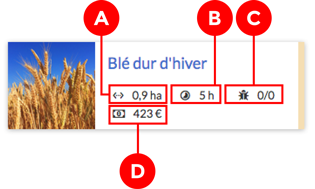
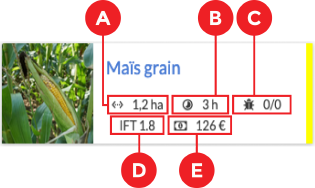
IFT (wip)

diff --git a/content/fr/chapitre9.html b/content/fr/chapitre9.html
@@ -2353,19 +2353,17 @@
                      <img src="../images/chapitre9/d-maj.svg" alt="D" height="40" width="40">
                   </div>
                   <div class="divTableCellInter" style="width: auto">
+                     <p><img src="../images/chapitre9/ift.svg" alt="IFT" height="20" class="align-icone icone-marge-droite">affiche l'IFT total pondéré par les surfaces pour cette activité.</p>
+                  </div>
+               </div>
+			   <div class="divTableRow">
+                  <div class="divTableCellInter">
+                     <img src="../images/chapitre9/e-maj.svg" alt="E" height="40" width="40">
+                  </div>
+                  <div class="divTableCellInter" style="width: auto">
                      <p><img src="../images/chapitre9/money.svg" alt="Dépenses/Recettes" height="20" class="align-icone icone-marge-droite">affiche le coût global de production estimatif et calculé pour cette activité<sup>2</sup>.</p>
                   </div>
                </div>
-			   <!--
-			   <div class="divTableRow">
-                  <div class="divTableCellInter">
-                     <img src="../images/chapitre9/e-maj.svg" alt="D" height="40" width="40">
-                  </div>
-                  <div class="divTableCellInter">
-                     <p><img src="../images/chapitre9/flask.svg" alt="Phyto-fertilisant" height="20" class="align-icone icone-marge-droite">affiche les traitements phytosanitaires et fertilisants pour cette activité.</p>
-                  </div>
-               </div>
-			-->
             </div>
          </div>
 	  <p><em>1. Les temps de travaux sont automatiquement proratisés lorsqu'une intervention est enregistrée en ciblant des parcelles et/ou des cultures dont les activités sont différentes.</em><br /><em>2. Le coût global prend en compte les coûts des intrants, de main d'œuvre, des équipements et des prestations de services enregistrés dans les différents catalogues de prix.</em></p>

diff --git a/content/fr/notes-version.html b/content/fr/notes-version.html
@@ -32,7 +32,7 @@
       </div>
       <div class="image-large"><img class="chapitre loading" src="../images/notes-version/notes-version.png" alt="Notes de version" /></div>
       <div class="image-carre"><img class="chapitre loading" src="../images/notes-version/notes-version-carre.png" alt="Notes de version" /></div>
-      <p align="center" class="title-alternate majuscule aerateur">Notes de version</p>
+      <h1 align="center" class="majuscule aerateur">Notes de version</h1>
       <p class="texte">Les notes de version décrivent les nouvelles fonctionnalités, les améliorations, les modifications et les correctifs apportés à chaque évolution significative d'<strong>Eky</strong>agri et de l'application mobile Zero.</p>
       <div id="main_content_wrap" class="marge chronoline pdf">
          <section id="main_content">
